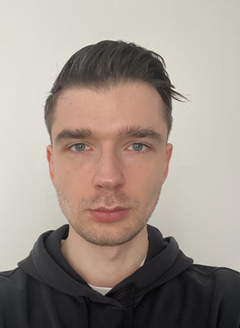
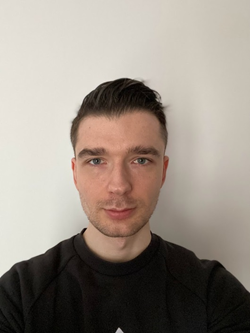
ajout tilt effect titleskills

diff --git a/index.html b/index.html
@@ -72,13 +72,13 @@
             </div>
             <div class="rightAbout from-right">
                 <div class="divImgAbout">
-                    <img src="/public/assets/img/IMG_0931.jpg" alt="profil picture" class="imgAbout">
+                    <img src="/public/assets/img/IMG_0948.jpg" alt="profil picture" class="imgAbout">
                 </div>
             </div>
         </section>
         <!-- EXPERIENCES SECTION -->
         <section class="experiences" id="experiences">
-            <div class="titleXpDiv from-left"> 
+            <div class="titleXpDiv from-left">
                 <h1 class="titleXp">Experiences</h1>
             </div>
             <div class="leftXpDiv from-left">
@@ -124,6 +124,9 @@
             </div>
             <!-- SKILLS -->
             <div class="skillsRow">
+                <div class="titleSkills">
+                    <h3>Découvrir mes Skills</h3>
+                </div>
                 <div class="leftColSkills">
                     <div class="leftColTitle">
                         <h4>Front-End</h4>

diff --git a/public/assets/js/script.js b/public/assets/js/script.js
@@ -195,6 +195,32 @@ gsap.utils.toArray('.from-right').forEach((element, i) => {
     });
 });
 
+// Animation trigger Skills
+document.addEventListener("DOMContentLoaded", function() {
+    const titleSkills = document.querySelector(".titleSkills");
+    const experiencesSection = document.querySelector(".experiences");
+
+    const tl = gsap.timeline({ paused: true });
+
+    tl.to(titleSkills, { rotation: 15, duration: 0.2, ease: "power1.inOut", yoyo: true, repeat: 31 });
+
+    gsap.registerPlugin(ScrollTrigger);
+
+    ScrollTrigger.create({
+        trigger: experiencesSection,
+        start: "top 80%",
+        onEnter: () => {
+            tl.play();
+        },
+        once: true // Ne déclenche l'événement qu'une seule fois à l'entrée de la section
+    });
+});
+
+
+
+
+
+
 
 
 const tl = gsap.timeline({ defaults: { duration: 1, ease: "power2.out" } });

diff --git a/public/assets/css/style.css b/public/assets/css/style.css
@@ -635,6 +635,18 @@ canvas {
     display: flex;
     height: 25%;
     justify-content: center;
+    flex-direction: row;
+    flex-wrap: wrap;
+}
+
+.titleSkills {
+    width: 100%;
+    color: var(--white-color);
+    text-transform: uppercase;
+    text-align: center;
+    font-size: 28px;
+    height: 35%;
+    animation: rotate(0deg);
 }
 
 .leftColSkills {

diff --git a/public/assets/css/mobile.css b/public/assets/css/mobile.css
@@ -17,9 +17,6 @@
     .headerContainer {
         margin: 0;
     }
-    .navJs {
-        top: 15%;
-    }
     .navJs a {
         font-size: 40px;
     }
